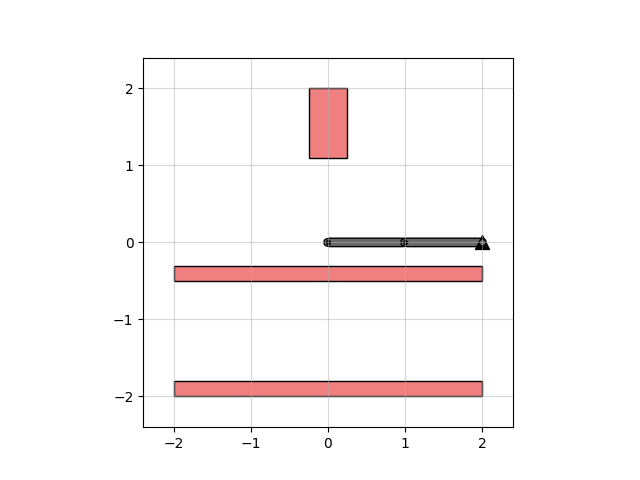
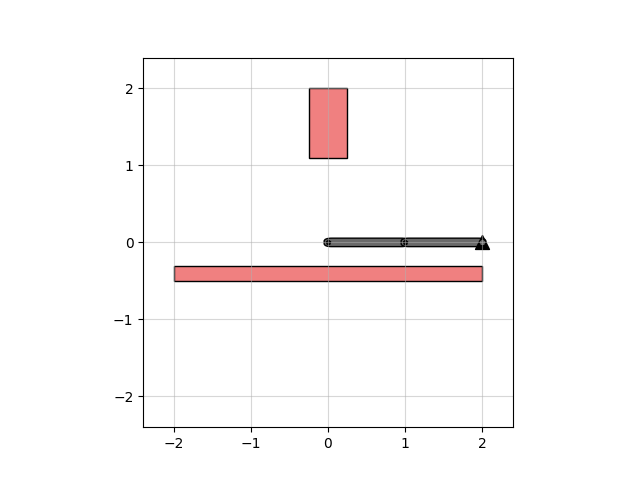
FINAL without 3link nlink

Changed region(s): [[0.25, 0.7812, 0.7812, 0.8438]]

diff --git a/ws/hw4/ManipulatorSkeleton.cpp b/ws/hw4/ManipulatorSkeleton.cpp
@@ -1,17 +1,15 @@
 #include "ManipulatorSkeleton.h"
 #include <cmath>
 
-// Default constructor
 MyManipulator2D::MyManipulator2D() 
     : LinkManipulator2D({1.0, 1.0}) 
 {}
 
-// Constructor that takes a vector of link lengths
 MyManipulator2D::MyManipulator2D(const std::vector<double>& link_lengths) 
     : LinkManipulator2D(link_lengths) 
 {}
 
-// Forward Kinematics for an N-Link Manipulator
+// Forward Kinematics
 Eigen::Vector2d MyManipulator2D::getJointLocation(const amp::ManipulatorState& state, uint32_t joint_index) const {
     const amp::ManipulatorState* state_ptr = &state;
     amp::ManipulatorState temp_state;
@@ -33,35 +31,79 @@ Eigen::Vector2d MyManipulator2D::getJointLocation(const amp::ManipulatorState& s
     return joint_location;
 }
 
-// Inverse Kinematics for a 2-Link Manipulator
+// Inverse Kinematics
 amp::ManipulatorState MyManipulator2D::getConfigurationFromIK(const Eigen::Vector2d& end_effector_location) const {
-    // This implementation is for a 2-link manipulator.
-    if (nLinks() != 2) {
-        amp::ManipulatorState state(nLinks());
-        state.setZero();
+    
+    // 2 Link
+    if (nLinks() == 2) {
+        amp::ManipulatorState state(2);
+        const double x = end_effector_location.x();
+        const double y = end_effector_location.y();
+        const double l1 = m_link_lengths[0];
+        const double l2 = m_link_lengths[1];
+
+        const double distance_squared = x*x + y*y;
+        if (distance_squared > (l1 + l2) * (l1 + l2) || distance_squared < (l1 - l2) * (l1 - l2)) {
+            state.setZero();
+            return state;
+        }
+
+        const double cos_theta2 = (x*x + y*y - l1*l1 - l2*l2) / (2.0 * l1 * l2);
+        const double theta2 = -acos(cos_theta2); // Elbow up
+        const double theta1 = atan2(y, x) - atan2(l2 * sin(theta2), l1 + l2 * cos(theta2));
+        state << theta1, theta2;
+        return state;
+    } 
+    // 3 Link
+    else if (nLinks() == 3) {
+        amp::ManipulatorState state(3);
+        const double x = end_effector_location.x();
+        const double y = end_effector_location.y();
+        const double a1 = m_link_lengths[0];
+        const double a2 = m_link_lengths[1];
+        const double a3 = m_link_lengths[2];
+
+        // Assumption: theta3 = 0
+        const double theta3 = 0.0;
+        const double l1_virtual = a1;
+        const double l2_virtual = a2 + a3;
+
+        const double distance_squared = x*x + y*y;
+        if (distance_squared > (l1_virtual + l2_virtual) * (l1_virtual + l2_virtual)) {
+            state.setZero(); // Target is unreachable
+            return state;
+        }
+
+        const double cos_theta2 = (x*x + y*y - l1_virtual*l1_virtual - l2_virtual*l2_virtual) / (2.0 * l1_virtual * l2_virtual);
+        if (cos_theta2 < -1.0 || cos_theta2 > 1.0) {
+             state.setZero();
+             return state;
+        }
+
+        const double theta2 = -acos(cos_theta2);
+        const double theta1 = atan2(y, x) - atan2(l2_virtual * sin(theta2), l1_virtual + l2_virtual * cos(theta2));
+        
+        state << theta1, theta2, theta3;
         return state;
     }
-
-    amp::ManipulatorState state(2);
-    const double x = end_effector_location.x();
-    const double y = end_effector_location.y();
-    const double l1 = m_link_lengths[0];
-    const double l2 = m_link_lengths[1];
-
-    const double distance_squared = x*x + y*y;
-    // Check if the target is reachable
-    if (distance_squared > (l1 + l2) * (l1 + l2) || distance_squared < (l1 - l2) * (l1 - l2)) {
-        state.setZero();
-        return state;
+    // n Link
+    else {
+        amp::ManipulatorState current_state(nLinks());
+        current_state.setZero();
+        const int max_iterations = 100;
+        const double tolerance = 1e-3;
+        for (int iter = 0; iter < max_iterations; ++iter) {
+            if ((getJointLocation(current_state, nLinks()) - end_effector_location).norm() < tolerance) break;
+            for (int i = nLinks() - 1; i >= 0; --i) {
+                Eigen::Vector2d joint_pos = getJointLocation(current_state, i);
+                Eigen::Vector2d end_effector_pos = getJointLocation(current_state, nLinks());
+                Eigen::Vector2d vec_to_target = end_effector_location - joint_pos;
+                Eigen::Vector2d vec_to_effector = end_effector_pos - joint_pos;
+                double angle_to_target = atan2(vec_to_target.y(), vec_to_target.x());
+                double angle_to_effector = atan2(vec_to_effector.y(), vec_to_effector.x());
+                current_state(i) += angle_to_target - angle_to_effector;
+            }
+        }
+        return current_state;
     }
-
-    // Calculate theta2 using the Law of Cosines (elbow up)
-    const double cos_theta2 = (x*x + y*y - l1*l1 - l2*l2) / (2.0 * l1 * l2);
-    const double theta2 = -acos(cos_theta2);
-
-    // Calculate theta1
-    const double theta1 = atan2(y, x) - atan2(l2 * sin(theta2), l1 + l2 * cos(theta2));
-
-    state << theta1, theta2;
-    return state;
 }

diff --git a/ws/hw4/main.cpp b/ws/hw4/main.cpp
@@ -53,14 +53,11 @@ int main(int argc, char** argv) {
 
 // Helper function to run a test case
 void runTestCase(const std::string& name, const amp::Environment2D& env) {
-    std::cout << "\n--- Running Test Case: " << name << " ---" << std::endl;
+    std::cout << "\nRunning Test Case: " << name << std::endl;
 
     MyManipulator2D manipulator({1.0, 1.0});
     MyManipulatorCSConstructor cspace_constructor(100);
     std::unique_ptr<amp::GridCSpace2D> cspace = cspace_constructor.construct(manipulator, env);
-
-    // FIX 1: The makeFigure function for showing a manipulator in an environment needs a third argument: the state.
-    // We'll show the manipulator in its "zero" angle configuration.
     amp::ManipulatorState zero_state(manipulator.nLinks());
     zero_state.setZero();
     amp::Visualizer::makeFigure(env, manipulator, zero_state);
@@ -71,16 +68,15 @@ void runTestCase(const std::string& name, const amp::Environment2D& env) {
 int main(int argc, char** argv) {
     MyManipulatorCSConstructor cspace_constructor(100);
     
-    // === Case (a): A single triangular obstacle ===
+    // (a) A single triangular obstacle
     {
-        // FIX 2: Create a named std::vector for the vertices before creating the Obstacle2D object.
         std::vector<Eigen::Vector2d> vertices_a = {Eigen::Vector2d(0.25, 0.25), Eigen::Vector2d(0.0, 0.75), Eigen::Vector2d(-0.25, 0.25)};
         amp::Environment2D env_a;
         env_a.obstacles.push_back(amp::Obstacle2D(vertices_a));
         runTestCase("(a) Triangular Obstacle", env_a);
     }
 
-    // === Case (b): Two large rectangular obstacles ===
+    // (b) Two large rectangular obstacles
     {
         std::vector<Eigen::Vector2d> vertices_b1 = {Eigen::Vector2d(-0.25, 1.1), Eigen::Vector2d(-0.25, 2), Eigen::Vector2d(0.25, 2), Eigen::Vector2d(0.25, 1.1)};
         std::vector<Eigen::Vector2d> vertices_b2 = {Eigen::Vector2d(-2, -2), Eigen::Vector2d(-2, -1.8), Eigen::Vector2d(2, -1.8), Eigen::Vector2d(2, -2)};
@@ -90,22 +86,18 @@ int main(int argc, char** argv) {
         runTestCase("(b) Two Rectangular Obstacles", env_b);
     }
 
-    // === Case (c): Two obstacles from previous parts ===
+    // (c) Three obstacles
     {
         std::vector<Eigen::Vector2d> vertices_c1 = {Eigen::Vector2d(-0.25, 1.1), Eigen::Vector2d(-0.25, 2), Eigen::Vector2d(0.25, 2), Eigen::Vector2d(0.25, 1.1)};
         std::vector<Eigen::Vector2d> vertices_c2 = {Eigen::Vector2d(-2, -0.5), Eigen::Vector2d(-2, -0.3), Eigen::Vector2d(2, -0.3), Eigen::Vector2d(2, -0.5)};
-        std::vector<Eigen::Vector2d> vertices_c3 = {Eigen::Vector2d(-2, -2), Eigen::Vector2d(-2, -1.8), Eigen::Vector2d(2, -1.8), Eigen::Vector2d(2, -2)};
         amp::Environment2D env_c;
         env_c.obstacles.push_back(amp::Obstacle2D(vertices_c1));
         env_c.obstacles.push_back(amp::Obstacle2D(vertices_c2));
-        env_c.obstacles.push_back(amp::Obstacle2D(vertices_c3));
         runTestCase("(c) Three Different Obstacles", env_c);
     }
 
     amp::Visualizer::saveFigures();
-
-    // Make sure to replace this with your actual email address
-    amp::HW4::grade<MyManipulator2D>(cspace_constructor, "your_email@colorado.edu", argc, argv);
+    amp::HW4::grade<MyManipulator2D>(cspace_constructor, "AllenDevaraj.AugustinPonraj@colorado.edu", argc, argv);
     
     return 0;
 }
